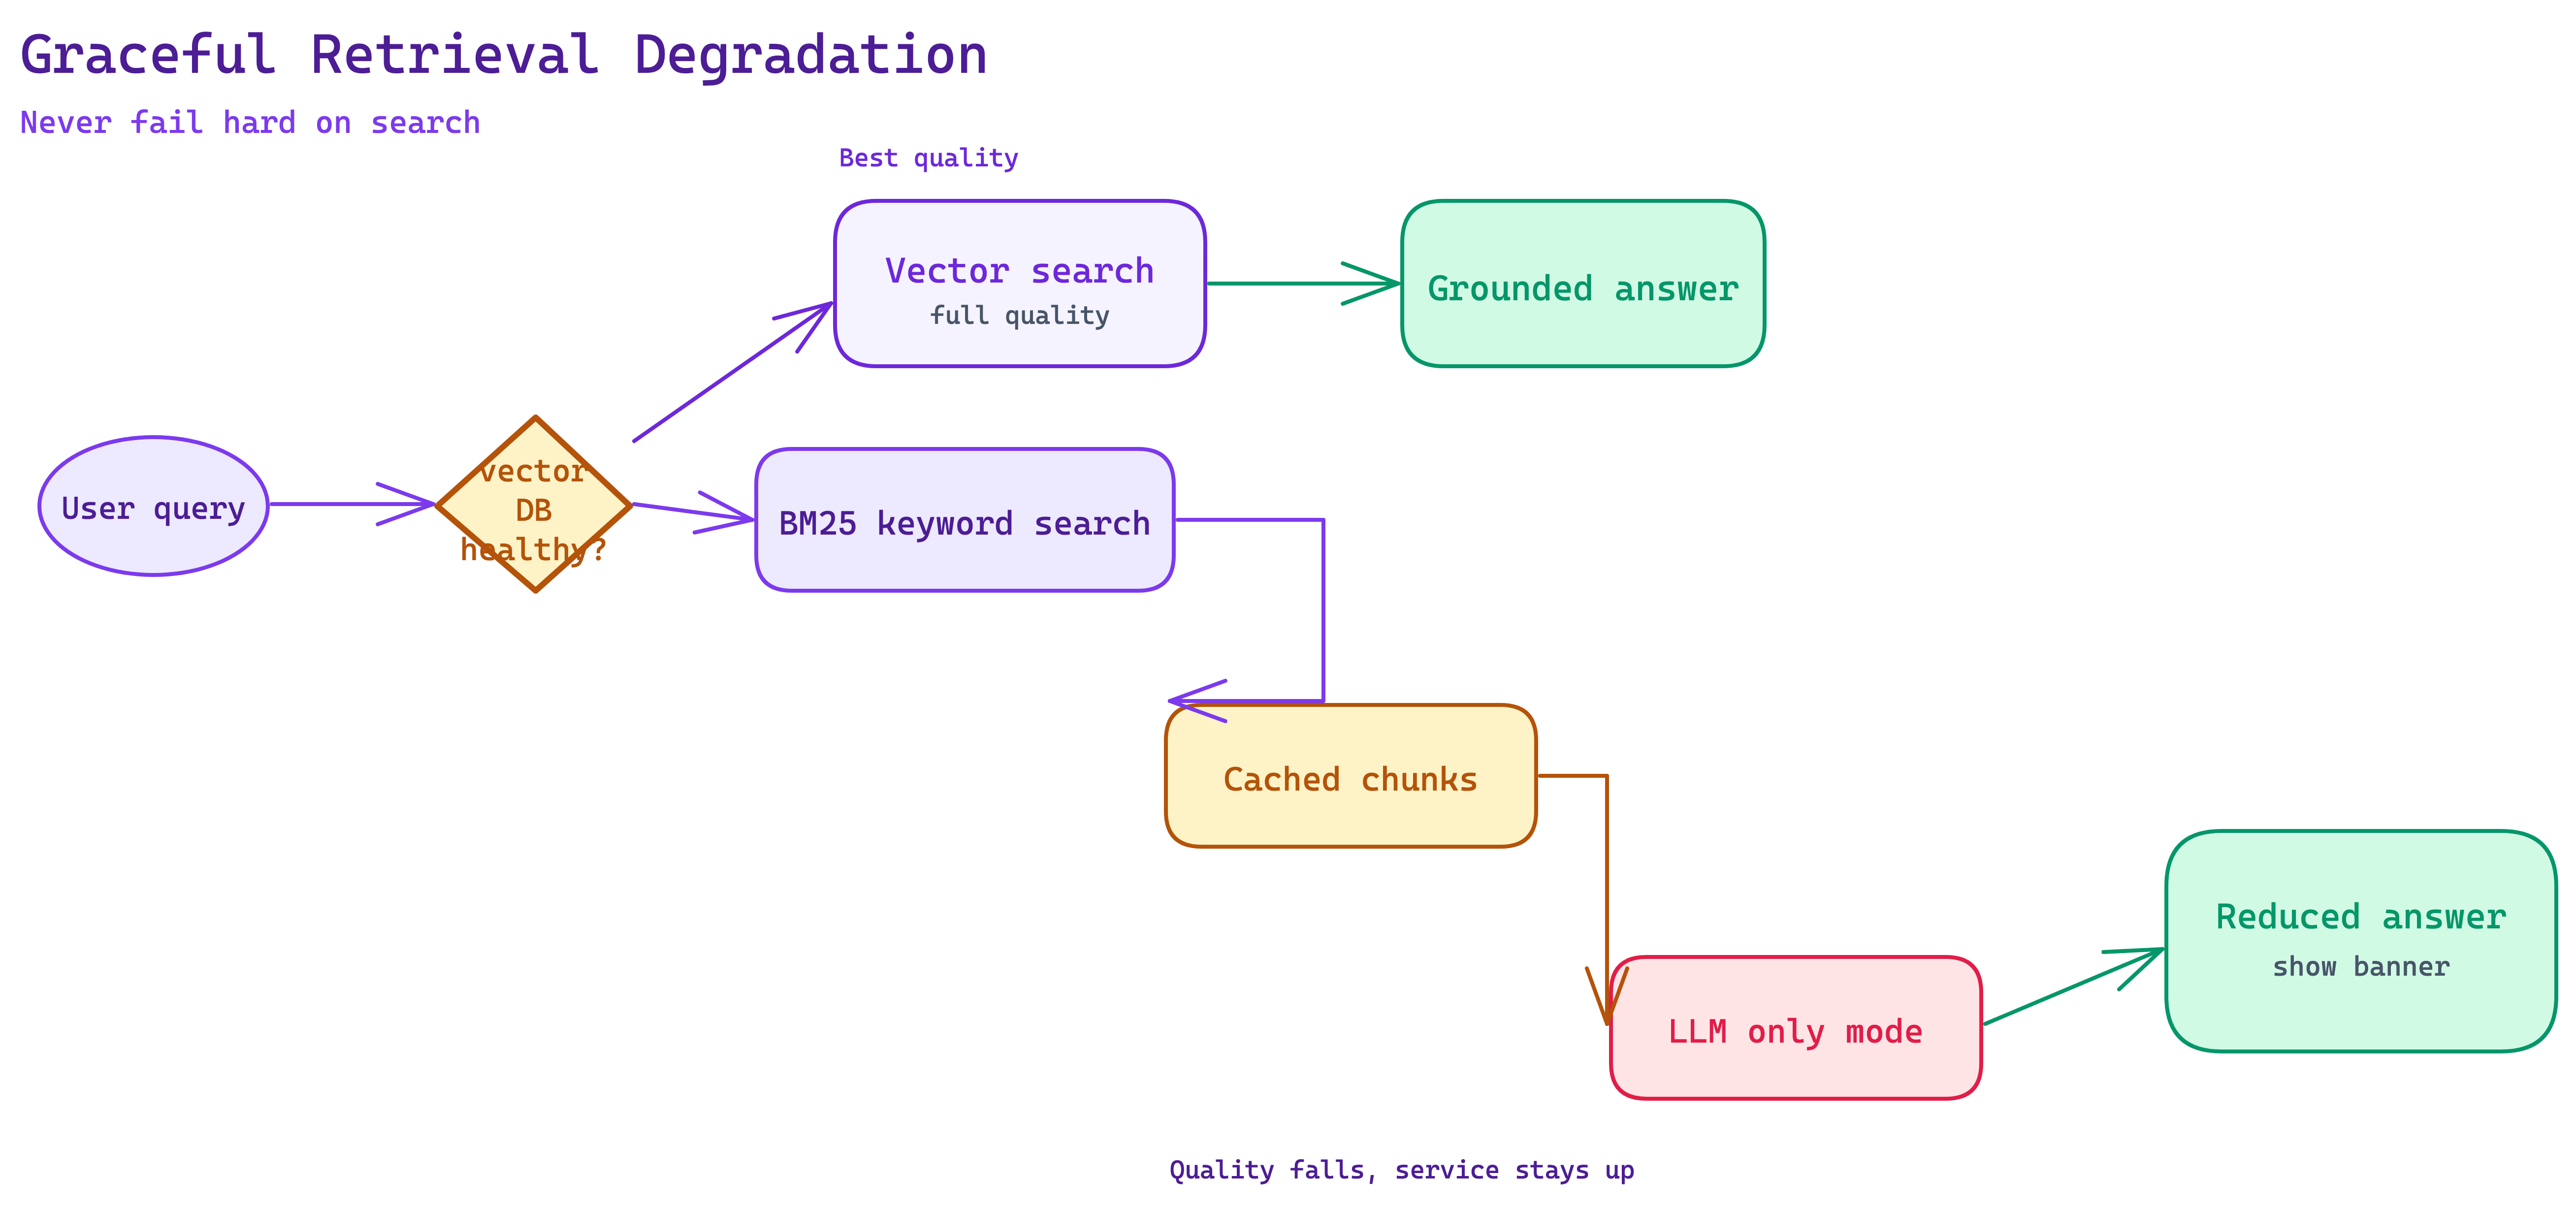
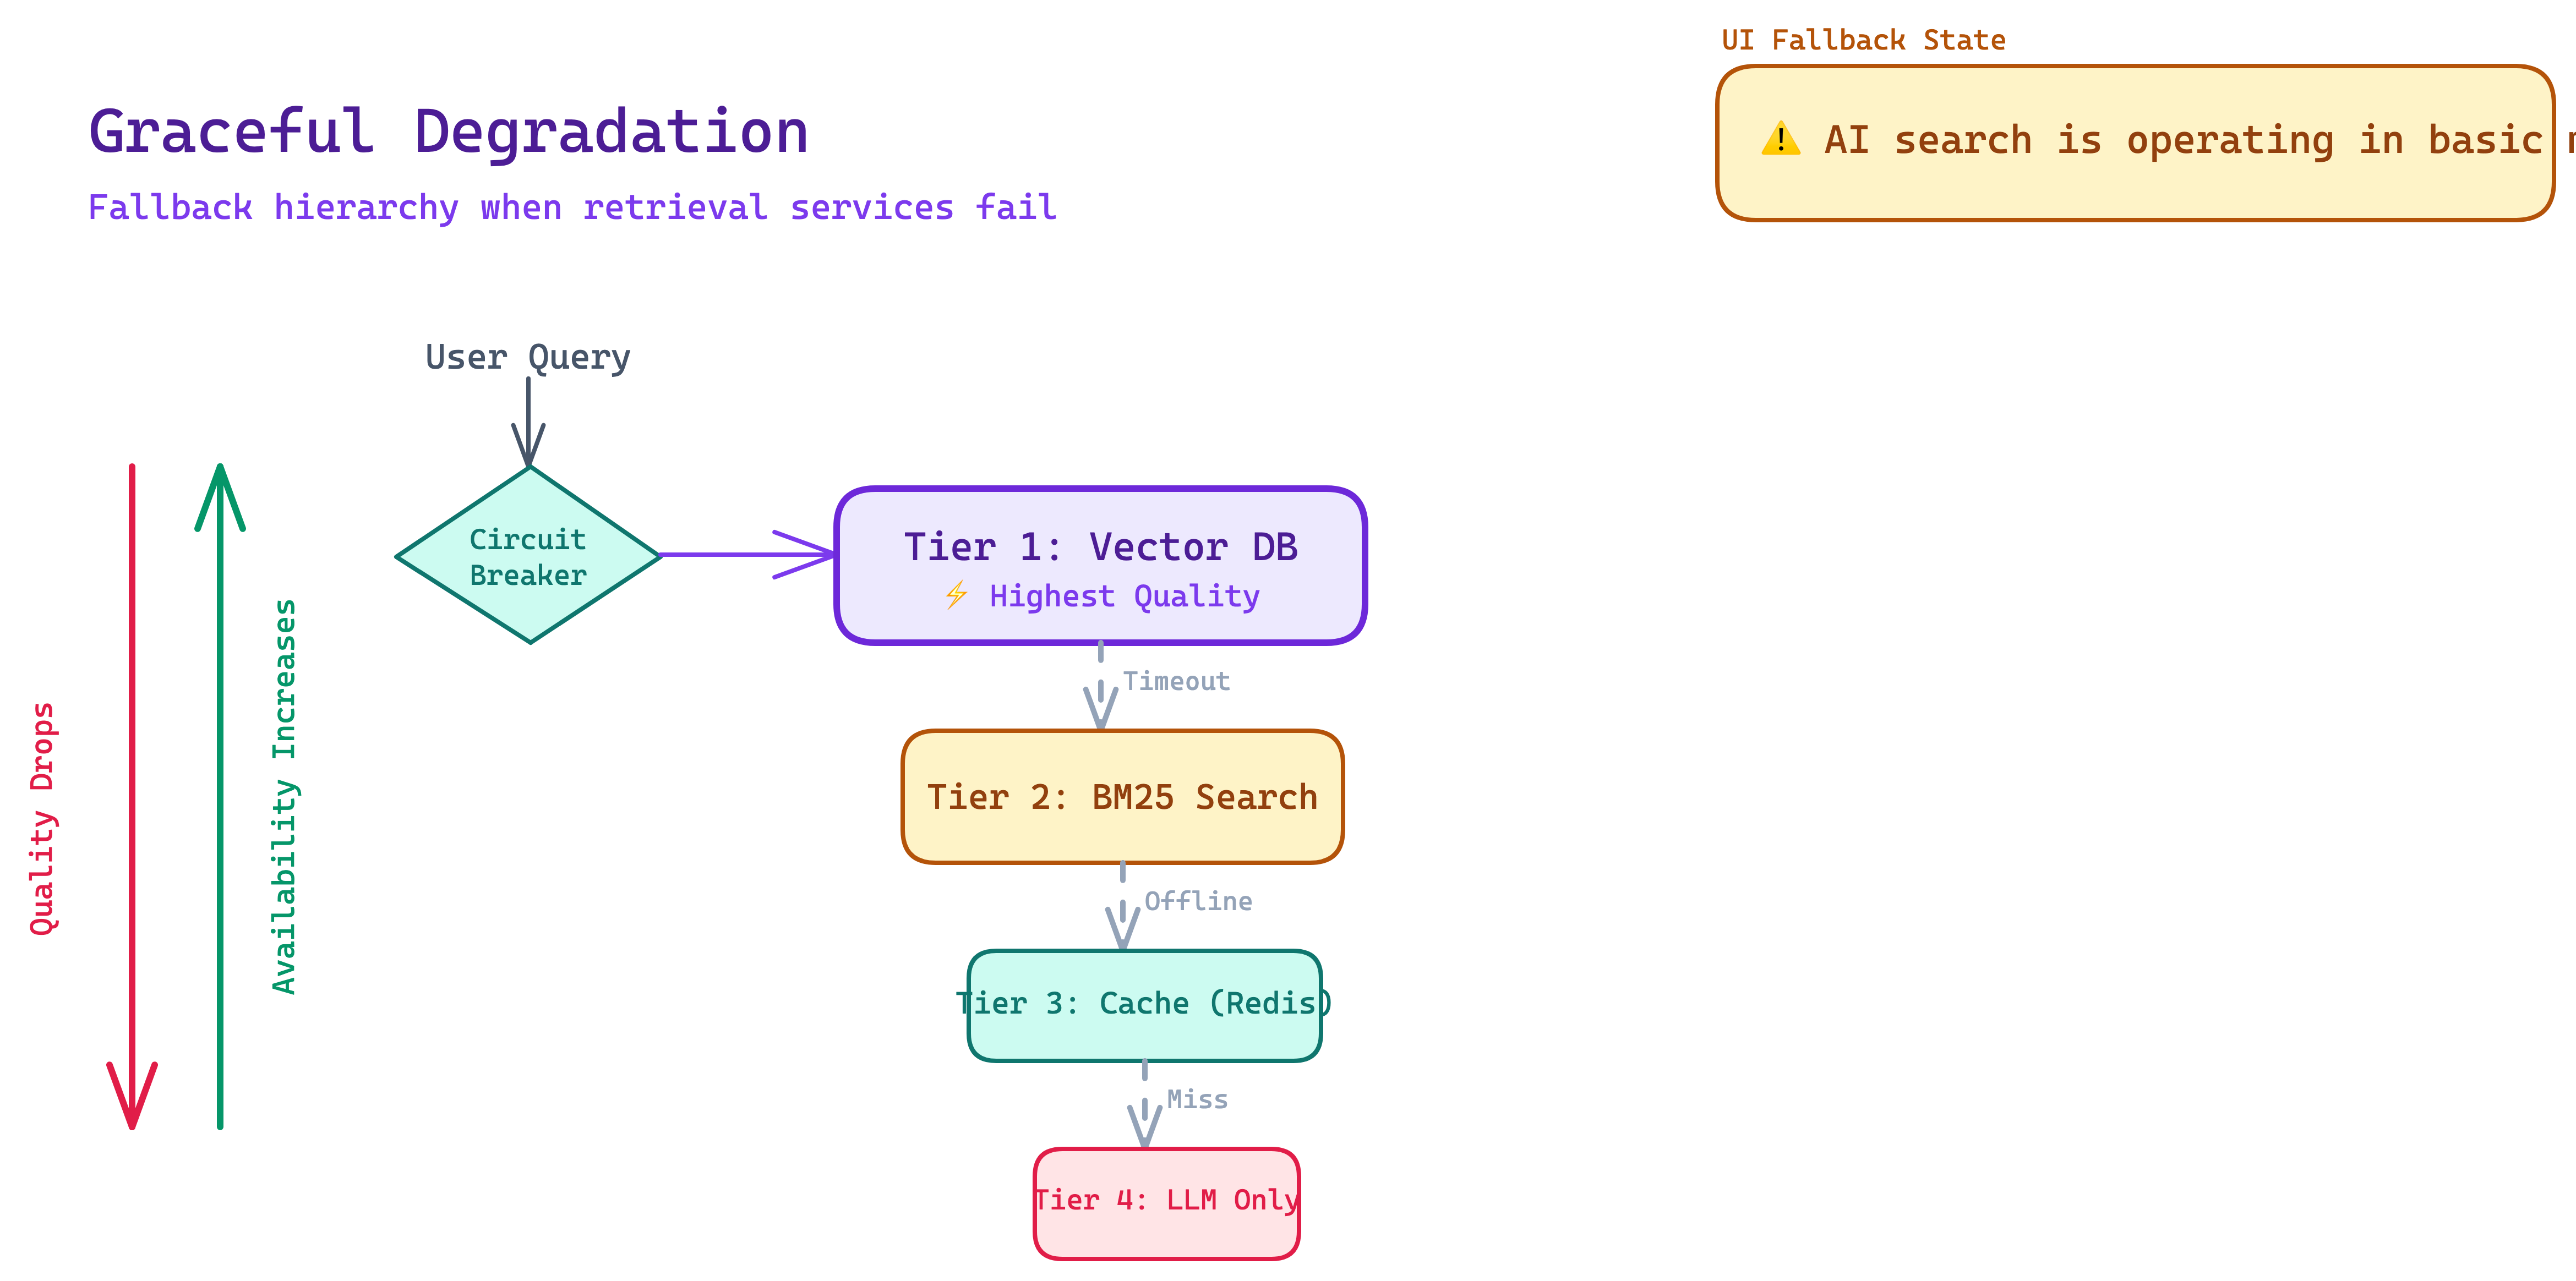
Update Q17, Q18, Q19 diagrams and add references

diff --git a/answers/category_3/references/q18-references.md b/answers/category_3/references/q18-references.md
@@ -1,0 +1,35 @@
+# References: Filtering Hallucinated Citations in Production
+
+Curated resources for deeper study on hallucination detection, citation verification, and grounding techniques.
+
+---
+
+## Official Documentation
+
+- [Azure AI Content Safety — Groundedness Detection](https://learn.microsoft.com/en-us/azure/ai-services/content-safety/concepts/groundedness) — Managed API that checks if LLM outputs are grounded in provided source documents, returning per-sentence confidence scores.
+- [AWS Bedrock Guardrails — Grounding Check](https://docs.aws.amazon.com/bedrock/latest/userguide/guardrails.html) — Amazon's inline grounding check that compares model outputs against the provided context, integrated directly into the Bedrock inference pipeline.
+- [Perplexity AI — How It Works](https://www.perplexity.ai/hub/about) — Citations-first architecture where every claim is hyperlinked to a retrieved source before generation.
+
+## Provider & Cloud Docs
+
+- [Guardrails AI Documentation](https://www.guardrailsai.com/docs) — Open-source Python library with composable validators including `ValidURL` (HTTP HEAD checks) and `FactuallyConsistentSummary` (NLI-based consistency).
+- [Guardrails AI — ValidURL Validator](https://hub.guardrailsai.com/validator/guardrails/valid_url) — Fires HTTP HEAD requests on every extracted URL and flags non-200 responses as hallucinated.
+- [Vectara HHEM (Hughes Hallucination Evaluation Model)](https://huggingface.co/vectara/hallucination_evaluation_model) — Open-source NLI-based hallucination detection model, available on Hugging Face.
+
+## Blog Posts & Articles
+
+- [Anthropic — Reducing Hallucination in AI](https://www.anthropic.com/news/reducing-ai-generated-hallucinations-with-citations) — Anthropic's technical approach to reducing hallucinated content through citation-aware generation.
+- [LLM-as-a-Judge: A Practical Guide](https://eugeneyan.com/writing/llm-as-judge/) — Eugene Yan's guide on using secondary LLMs to fact-check and evaluate primary LLM outputs.
+- [Microsoft Copilot Citation Architecture](https://blogs.microsoft.com/blog/2023/09/21/announcing-microsoft-copilot-your-everyday-ai-companion/) — How Copilot embeds citations during constrained decoding rather than adding them as an afterthought.
+- [Natural Language Inference for Fact Checking](https://huggingface.co/tasks/text-classification) — Hugging Face overview of NLI models and how to use them for entailment checking against source passages.
+
+## Research Papers
+
+- [FActScore: Fine-grained Atomic Evaluation of Factual Precision in Long Form Text Generation](https://arxiv.org/abs/2305.14251) — Min et al. (2023). Breaks LLM outputs into atomic facts and verifies each against a knowledge source.
+- [SAFE: Search-Augmented Factuality Evaluator](https://arxiv.org/abs/2403.18802) — Wei et al. (2024). Google DeepMind's approach to automated factuality evaluation using search-augmented verification.
+- [A Survey on Hallucination in Large Language Models](https://arxiv.org/abs/2311.05232) — Huang et al. (2023). Comprehensive survey of hallucination types, detection methods, and mitigation strategies.
+
+## Framework Documentation
+
+- [LangChain — Output Parsers & Validators](https://python.langchain.com/docs/concepts/output_parsers/) — Patterns for structured output parsing and post-generation validation in LangChain pipelines.
+- [LlamaIndex — Response Evaluator](https://docs.llamaindex.ai/en/stable/module_guides/evaluating/) — Built-in evaluation modules for faithfulness and relevancy checking of RAG responses.

diff --git a/answers/category_3/references/q19-references.md b/answers/category_3/references/q19-references.md
@@ -1,0 +1,35 @@
+# References: Graceful Degradation When Retrieval Fails
+
+Curated resources for deeper study on vector database high availability, circuit breaker patterns, fallback retrieval, and resilient AI architectures.
+
+---
+
+## Official Documentation
+
+- [Pinecone — High Availability & Replicas](https://docs.pinecone.io/guides/architecture/overview) — Serverless multi-AZ by default; pod tier supports configurable read replicas for failover.
+- [Weaviate — Replication Architecture](https://weaviate.io/developers/weaviate/configuration/replication) — Multi-node clustering with configurable replication factors and automatic query re-routing on node failure.
+- [Qdrant — Distributed Mode](https://qdrant.tech/documentation/guides/distributed_deployment/) — Replication factors and write consistency levels (one/quorum/all) borrowed from distributed database design.
+
+## Provider & Cloud Docs
+
+- [Elasticsearch — kNN Vector Search](https://www.elastic.co/guide/en/elasticsearch/reference/current/knn-search.html) — Dense vector search via the kNN plugin, enabling Elasticsearch as both keyword and approximate semantic search fallback.
+- [OpenSearch — k-NN Plugin](https://opensearch.org/docs/latest/search-plugins/knn/index/) — AWS-managed alternative supporting both exact and approximate nearest neighbor search alongside BM25.
+- [Redis — Vector Similarity Search](https://redis.io/docs/latest/develop/interact/search-and-query/advanced-concepts/vectors/) — Redis Stack's vector search capabilities for caching frequently-queried embeddings and chunks.
+
+## Blog Posts & Articles
+
+- [Martin Fowler — Circuit Breaker Pattern](https://martinfowler.com/bliki/CircuitBreaker.html) — Foundational article on the circuit breaker pattern: monitor dependency health, automatically "open" the circuit on failure, and route to fallbacks.
+- [Microsoft — Resilience Patterns for Cloud Applications](https://learn.microsoft.com/en-us/azure/architecture/patterns/circuit-breaker) — Azure architecture guide covering circuit breaker, retry, and fallback patterns for cloud-native apps.
+- [Hybrid Search: Combining BM25 and Vector Search](https://weaviate.io/blog/hybrid-search-explained) — Weaviate's explanation of hybrid retrieval and why running both BM25 and vector search improves resilience and quality.
+- [Building Resilient RAG Pipelines](https://www.pinecone.io/learn/retrieval-augmented-generation/) — Pinecone's learning guide on building production-grade RAG with redundancy and monitoring.
+
+## Research Papers
+
+- [Retrieval-Augmented Generation for Knowledge-Intensive NLP Tasks](https://arxiv.org/abs/2005.11401) — Lewis et al. (2020). The original RAG paper from Facebook AI, establishing the retrieve-then-generate paradigm.
+- [Hybrid Retrieval with Dense and Sparse Representations](https://arxiv.org/abs/2104.07186) — Luan et al. (2021). Shows that combining dense vector retrieval with sparse keyword retrieval (BM25) outperforms either alone.
+
+## Framework Documentation
+
+- [LangChain — Fallback Retriever Pattern](https://python.langchain.com/docs/how_to/fallbacks/) — Configure primary and fallback retrievers in a priority chain with automatic exception-based failover.
+- [LlamaIndex — Retriever Modules](https://docs.llamaindex.ai/en/stable/module_guides/querying/retriever/) — Composable retriever architecture supporting vector, keyword, and hybrid retrieval with custom routing.
+- [Resilience4j — Circuit Breaker for Java/Kotlin](https://resilience4j.readme.io/docs/circuitbreaker) — Popular circuit breaker library with configurable thresholds, useful as a reference implementation for Python equivalents.

diff --git a/answers/category_3/references/q17-references.md b/answers/category_3/references/q17-references.md
@@ -1,0 +1,33 @@
+# References: Securing AI Agent Function Calling
+
+Curated resources for deeper study on agent security, prompt injection defence, and human-in-the-loop safeguards.
+
+---
+
+## Official Documentation
+
+- [OpenAI Function Calling (strict mode)](https://platform.openai.com/docs/guides/function-calling) — Explains `strict: true` parameter that enforces JSON schema at inference time, preventing argument manipulation.
+- [Anthropic Tool Use Documentation](https://docs.anthropic.com/en/docs/build-with-claude/tool-use/overview) — Claude's tool use protocol including best practices for minimal footprint and confirmation patterns.
+- [Microsoft AutoGen UserProxyAgent](https://microsoft.github.io/autogen/docs/reference/agentchat/user_proxy_agent/) — Multi-agent framework with `human_input_mode` settings (`ALWAYS`, `NEVER`, `TERMINATE`) for configurable HITL.
+
+## Provider & Cloud Docs
+
+- [Lakera Guard API](https://www.lakera.ai/lakera-guard) — Managed prompt injection detection API (~10ms latency) with continuously updated threat database.
+- [NVIDIA NeMo Guardrails](https://docs.nvidia.com/nemo/guardrails/index.html) — Open-source framework for adding programmable guardrails to LLM-powered applications, including input/output rails.
+
+## Blog Posts & Articles
+
+- [OWASP Top 10 for LLM Applications](https://owasp.org/www-project-top-10-for-large-language-model-applications/) — Industry-standard security risks for LLM apps, including prompt injection (LLM01) and insecure tool use.
+- [Simon Willison — Prompt Injection Explained](https://simonwillison.net/2023/Apr/14/worst-that-can-happen/) — Foundational blog series on why prompt injection is fundamentally difficult to solve.
+- [LangChain Human-in-the-Loop Guide](https://python.langchain.com/docs/how_to/tools_human/) — Community patterns for wrapping tools with `HumanApprovalCallbackHandler` for production HITL.
+- [Principle of Least Privilege in Agentic AI](https://www.anthropic.com/engineering/building-effective-agents) — Anthropic's guidance on scoping agent permissions to minimize blast radius.
+
+## Research Papers
+
+- [Not what you've signed up for: Compromising Real-World LLM-Integrated Applications with Indirect Prompt Injection](https://arxiv.org/abs/2302.12173) — Greshake et al. (2023). Seminal paper demonstrating indirect prompt injection attacks against LLM-integrated applications.
+- [Prompt Injection attack against LLM-integrated Applications](https://arxiv.org/abs/2306.05499) — Liu et al. (2023). Systematic analysis of prompt injection attack vectors and defence mechanisms.
+
+## Framework Documentation
+
+- [LangChain Tool Calling](https://python.langchain.com/docs/concepts/tool_calling/) — How LangChain agents invoke tools, including schema validation and callback hooks.
+- [AutoGen Conversable Agent](https://microsoft.github.io/autogen/docs/tutorial/conversable-agent/) — Tutorial on configuring multi-agent conversations with human proxy patterns.